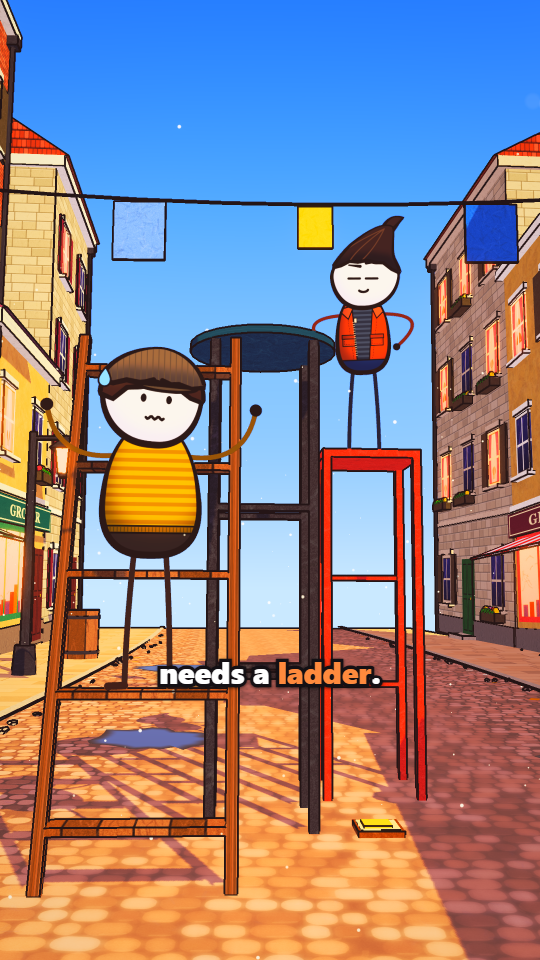
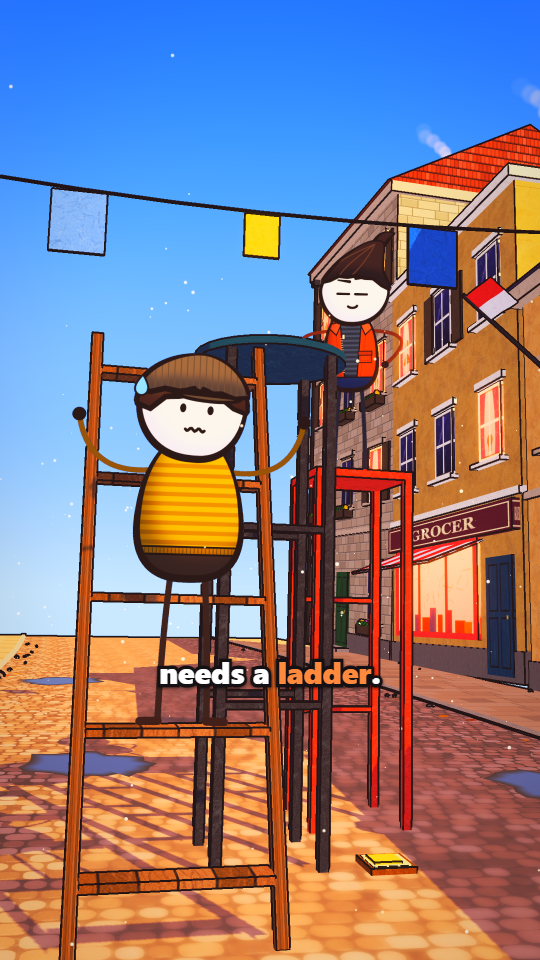
_pipeline-test: final renders, QA layers 1-3, updated report
- Key words always start their own caption group (kit/toon/Captions.tsx):
  the round-2 reviewer saw "ladder." 10 frames before it was spoken.
- Final 2K: 197 s at concurrency 1; 1080: 136 s at concurrency 2.
- QA: layer 1 11/11 pass (6 shots, new Caption width check), video_qa no
  flags, short_qa -14.1 LUFS, measure.py day vignette 1.34 (std 0.191 low).
  New reviewer: S3 restage confirmed; 3 major S2 issues left open.
- TEST-REPORT.md: summary on top, voice-vs-music table (13.1 -> 18.8 dB),
  render times, skill diff summary, open issues. Fresh QA stills + sheet.

diff --git a/kit/toon/Captions.tsx b/kit/toon/Captions.tsx
@@ -17,12 +17,21 @@ export const CAPTION = { size: 0.055, stroke: 0.012, maxWidth: 0.84, maxLines: 2
 export const KEY_COLOR = "#ff8a3d";
 const KEY = /\*([^*]+)\*/;
 
-/** Caption groups (1-2 words) exactly as drawn: shared with the QA guard's "Caption width" check. */
+/**
+ * Caption groups (1-2 words) exactly as drawn: shared with the QA guard's "Caption width" check. A key word
+ * (`*word*`, the punchline) always starts its own group, so it never shows before it is spoken.
+ */
 export const captionPages = (words: CaptionWord[]) =>
   createTikTokStyleCaptions({
     captions: words.map((w) => ({ text: ` ${w.text}`, startMs: w.start * 1000, endMs: w.end * 1000, timestampMs: null, confidence: null })),
     combineTokensWithinMilliseconds: 350,
-  }).pages;
+  }).pages.flatMap((p) => {
+    const k = p.tokens.findIndex((t, i) => i > 0 && KEY.test(t.text));
+    if (k < 0) return [p];
+    const end = p.startMs + p.durationMs, split = p.tokens[k].fromMs;
+    const page = (tokens: typeof p.tokens, startMs: number, endMs: number) => ({ ...p, tokens, startMs, durationMs: endMs - startMs, text: tokens.map((t) => t.text).join("") });
+    return [page(p.tokens.slice(0, k), p.startMs, split), page(p.tokens.slice(k), split, end)];
+  });
 
 export const Captions: React.FC<{ words: CaptionWord[] }> = ({ words }) => {
   const frame = useCurrentFrame();

diff --git a/videos/_pipeline-test/TEST-REPORT.md b/videos/_pipeline-test/TEST-REPORT.md
@@ -1,104 +1,158 @@
 # _pipeline-test: pipeline smoke test report
 
+**Final (2K):** `out/_pipeline-test/final.mp4` (1440x2560, 450 frames, 15.000 s). A 1080 copy is
+`out/_pipeline-test/final_1080.mp4`.
+
+**Summary (follow-up round, 2026-11-12):**
+1. Music fixed: the bed is 6 dB lower and ducked 16 dB under speech. The voice now sits **18.8 dB** over the music during
+   speech (was 13.1 dB, below the new 15 dB FAIL line). The master is still -14.2 LUFS / -1.3 dBTP.
+2. S3 restaged into four shots. The ladder and friend exist only in the reveal shot, so nothing gives the punchline
+   away before "Your friend". The insert shows the toast landing butter-up at ~40 % of the frame width.
+3. Measurement decisions applied: the guard decides whether the camera moves (`measure.py` motion numbers are now
+   reference only); day exteriors get a vignette range of 1.1-1.4 (this video: 1.34).
+4. All the clear-cut skill edits applied. Captions now wrap at 0.84 W, with a new guard check. A key word always
+   starts its own caption group, so a punchline never shows before it is spoken.
+5. QA layer 1 passes 11 of 11 checks and layer 2 has no flags. A new reviewer found **3 major S2 readability issues**
+   (nudge, splat toast at the frame edge, card stick). They were outside this round's scope and are listed under Open.
+
 Internal 15 s test (450 f @ 30 fps), **not for posting**. Script: "What if your toast always landed butter-side
 down?" (`script.json`, approved 2026-11-12).
 
-- **Final (2K):** `out/_pipeline-test/final.mp4`, 1440x2560, 450 frames, 15.000 s, AAC 320k
-- **1080 cut:** `out/_pipeline-test/final_1080.mp4`
-
 ## Result per item
 
-Timestamps are in the final video (frame / 30 = seconds).
+Timestamps are in the final video (frame / 30 = seconds). "Changed" marks what this round changed.
 
-| # | Item | Result | Where to see it | Notes | Fix |
+| # | Item | Result | Where to see it | Notes | Fix / changed |
 |---|---|---|---|---|---|
-| 1 | Script | PASS | Whole video. Hook "butter-side down" by **1.9 s**. Gag: "½" judge card **7.07 s** (f212), 10-foot table + ladder **12.4-15 s**. Punchline "ladder" **14.28 s** | 39 words, scenario pillar, all "you". `check_script.py` reports only the expected length errors (39 words / ~13 s against 200-270 / 61-90). Fact checked (Matthews 1995, Eur. J. Phys. 16:172). Script shown and approved before any ElevenLabs credits were spent | none |
-| 2 | Voice | PARTIAL | Base tag 0.0 s. `[gasps]` **6.24-6.76 s**. `[laughs]` **12.80-13.40 s** | Eleven v4, narrator `zfc8CJQpe8Kqyl0vvCzo`, stability 0.3, one generation. Word timings from the character alignment (`voice/words.json`, 39 words, last word ends 14.88 s). Both tag spans contain sound (-30 / -18 dBFS), but no tool here can tell a performed gasp/laugh from the word read aloud. **Needs an ear check:** `voice/tag_gasps.wav`, `voice/tag_laughs.wav` | listen; if a tag was read aloud, regenerate with `node scripts/tts.ts videos/_pipeline-test --new` |
-| 3 | Captions | PASS | Orange key words: physics **2.96 s**, somersault **5.44 s**, Splat **6.88 s**, up **10.40 s**, ladder **14.28 s**. Long words "somersault..." and "butter-side" | Groups of 1-2 words from `words.json`, at 0.70 H. QA layer 1 "Caption vs face" passes on every frame, and the reviewer confirmed. **Wrapping was not tested:** `Captions.tsx` uses `white-space: pre`, so captions never wrap; the longest group fits at 1080 wide | none here; see skill notes |
-| 4 | Camera | PARTIAL | S1 push-in 0-3.97 s. Dissolve **3.67-4.0 s**. S2 lateral truck (+ slow push) 3.67-8.03 s. Dissolve **7.73-8.07 s**. S3 crane up + orbit 7.73-15 s. Planned shake **6.87-7.10 s** (f206-212) on "Splat" | QA layer 1 camera-curve passes on every frame; `video_qa.py` finds no SHAKE, SNAP or JERK flags. **But `measure.py` reports still frames 0-30** (still run 15 f, still 6.5 %, drift p50 2.06 vs >= 2.5) | not fixed: see "Open issues" 3 |
-| 5 | Characters | PASS | Walk with planted feet **0-3.2 s**. You: neutral → **shocked f204 (6.80 s)** for "Splat" (f206) → **smug f370 (12.33 s)** for "table" (f372). Friend: deadpan → **worried + sweat f426 (14.20 s)** for "ladder" (f428) | Every swap lands 2 frames before its word (guard "Reaction timing", 0-3 f). "Feet on the ground" passes every frame (pavement, stool top at 2.4 m, ladder tread at 0.9 m). Ink outlines and lit cards per kit. The smug face is small in the S3 wide | none |
-| 6 | World / look | PASS | Whole video. Prop interaction: you nudge the toast **5.73 s**, it falls **6.27-6.87 s**. Friend holds the card **7.07 s**. You on the stool, friend on the ladder **7.7-15 s** | Own layout (seed 41, gentle curve, café in the carriageway; S3 swaps in the tall table, stool and ladder). Day colour script. `measure.py`: luma 0.53, sat 0.54, C*p90 63, all in range. **Vignette 1.44 (target 0.8-0.9) is OFF** | not fixed: see "Open issues" 4 |
-| 7 | SFX | PASS | Steps **0.70 / 1.40 / 2.10 / 2.77 s**. Whoosh **3.83 s**, **7.90 s**. Swish 6.27 s. **Splat 6.87 s**. Pop 7.07 s. Pat 10.40 s. **UI sting 14.27 s** | 11 synthesized events (`audio/events.json`, `cues.md`), each placed on its frame, derived from `words.json` or the walk formula. Timed by construction; not checked by ear | none |
-| 8 | Music | PASS | Whole video. Comic drop-out **6.83-7.60 s**. Button **14.27 s** | Original 120 bpm plucked loop (`scripts/audio/music.py`), ducked -10 dB under the voice. The button lands on "ladder" and decays to -57 dBFS before the last frame: no hard cut | none |
-| 9 | Mix / master | PASS | Whole video | `mix.wav` measures **-14.3 LUFS integrated, -1.3 dBTP true peak** (EBU R128 via ffmpeg loudnorm). The final AAC measures -14.1 LUFS with sample peak -1.2 dBFS (`short_qa.py`; true peak of the AAC file not measured). Premaster was -18.6 LUFS / -0.8 dBTP, so the look-ahead true-peak limiter (ceiling -1.3) does about 4.5 dB of peak reduction. Length exactly 720,000 samples | none |
+| 1 | Script | PASS | Hook "butter-side down" by **1.9 s**. Gag: "½" card **7.07 s**, 10-foot table **11-13.4 s**, ladder reveal **13.4 s**. Punchline "ladder" **14.28 s** | 39 words, scenario pillar, all "you". The checker's only errors are the expected length ones. Fact checked (Matthews 1995) | none |
+| 2 | Voice | PARTIAL | `[gasps]` **6.24-6.76 s**, `[laughs]` **12.80-13.40 s** | Eleven v4, narrator voice, word timings from the alignment. The tag spans contain sound, but only an ear can tell a performed gasp/laugh from the word read aloud. **Needs your ear check:** `voice/tag_gasps.wav`, `voice/tag_laughs.wav` | listen; regenerate with `node scripts/tts.ts videos/_pipeline-test --new` if a tag was read aloud |
+| 3 | Captions | PASS | Orange key words: physics 2.96 s, somersault 5.44 s, Splat 6.88 s, up 10.40 s, ladder 14.28 s. "needs a" **13.92 s**, then "ladder." alone **14.28 s** | **Changed:** captions wrap inside 0.84 W (max 2 lines). The new guard "Caption width" check passes, and was tested to fail at 0.2 W. A key word always starts its own group (the reviewer saw "ladder." 10 frames early; fixed). "Caption vs face" passes on every frame | done |
+| 4 | Camera | PASS | S1 push-in 0-4.0 s · dissolve 3.67 s · S2 truck 3.67-8.07 s, planned shake **6.87-7.10 s** · dissolve 7.73 s · S3a push+arc 7.73-9.73 s · **hard cut 9.73 s** · S3b insert 9.73-11.3 s · dissolve 11.0 s · S3c low-angle arc/crane 11.0-13.7 s · dissolve **13.37 s** · S3d reveal arc 13.37-15 s | Guard "Camera curve" passes on every frame of all 6 shots (the authority, per section 3); `video_qa.py` finds no SHAKE, SNAP or JERK. `measure.py` motion (reference only): still 5.1 %, longest still run 5 f, drift p50 1.88 (S1 push-in on distant buildings, start of the insert) | **Changed:** S3 split into S3a-d |
+| 5 | Characters | PASS | Walk with planted feet **0-3.2 s**. You: neutral → **shocked 6.80 s** ("Splat" 6.87 s) → **smug 12.33 s** ("table" 12.40 s). Friend: deadpan → **worried + sweat 14.20 s** ("ladder" 14.27 s) | Every swap lands 2 frames before its word (guard "Reaction timing"). Feet planted every frame | none |
+| 6 | World / look | PASS | Whole video; S2 vignette before/after: `qa/vignette/S2_before_after.png` | **Changed:** day grade vignette .06 → .14. `measure.py --light day`: vignette **1.34** (new day range 1.1-1.4), luma .51, sat .54, C*p90 67. **std 0.191 is just under 0.21** (flatter since the S3 restage: more sky and a ground-level insert) | std: open (minor) |
+| 7 | SFX | PASS | Steps 0.70/1.40/2.10/2.77 s · whoosh 3.83, 7.90, 11.17, 13.53 s · swish 6.27, 8.73, 9.73 s · **splat 6.87 s** · pop 7.07 s · pat 10.40 s · **UI sting 14.27 s** | 15 synthesized events (`audio/events.json`, `cues.md`); 4 new for the S3 transitions | re-timed to the new shots |
+| 8 | Music | PASS | Whole video. Drop-out 6.83-7.60 s. Button **14.27 s** | **Changed:** bed -3 dB (was +3), ducked **-16 dB** (was -10). The button is its own stem, not ducked: above the bed, **3.2 dB under the voice** on "ladder". It decays to -57 dBFS before the last frame | done |
+| 9 | Mix / master | PASS | Whole video | `mix.wav`: **-14.2 LUFS, -1.3 dBTP**. Final AAC: -14.1 LUFS, sample peak -1.2 dBFS. **Voice over music during speech: 18.8 dB** (was 13.1 dB; on "table" the music used to be 6.3 dB louder than the voice). Checked by `mix.py` on every build: FAIL below 15 dB | done |
 
-## QA summary
+## Voice vs music (new check)
+
+`scripts/audio/mix.py`, speech band 200-4000 Hz, RMS of the voice stem vs the music as mixed (bed + button) over
+every word of `words.json`; written to `audio/loudness.json`.
+
+| Mix | Voice over music, all words | Lowest word | Voice over button ("ladder") | Verdict (>= 15 dB) |
+|---|---|---|---|---|
+| Before (bed +3 dB, duck 10 dB, button ducked) | 13.1 dB | -6.3 dB on "table." | 7.1 dB | FAIL |
+| **Now** (bed -3 dB, duck 16 dB, button -3 dB not ducked) | **18.8 dB** | 3.2 dB on "ladder." (the button) | 3.2 dB | **PASS** |
+
+## QA summary (final 2K)
 
 | Layer | Check | Result |
 |---|---|---|
-| 1 (scene, every frame) | 10 checks (`qa/layer1.md`) | **PASS**. 14 intended items: terrace buildings built to meet; the friend standing between the ladder rails |
-| 2 (pixels) | `video_qa.py` on the 2K final | **No flags** (`qa/layer2/report.md`) |
-| 2 | `short_qa.py` | Specs OK, -14.1 LUFS, no silences, black, white or frozen frames, no pops (`qa/short_qa/`) |
-| 2 | `measure.py` | Colour OK. **Vignette, drift p50, still % and still run OFF** (see Open issues 3-4) |
-| 3 (fresh reviewer) | 10 findings (`qa/layer3/REVIEW.md`) | 6 fixed, 2 partly fixed, 2 not fixed (staging and light) |
+| 1 (scene, every frame, 6 shots) | 11 checks incl. the new "Caption width" (`qa/layer1.md`) | **PASS.** 14 intended: terrace buildings built to meet; the friend between the ladder rails |
+| 2 (pixels) | `video_qa.py` | **No flags** (`qa/layer2/report.md`) |
+| 2 | `short_qa.py` (now given `shots.json`) | -14.1 LUFS, no silences, black, white or frozen frames. One pop at f312: the toast landing big in the insert, a planned image change, not a cut |
+| 2 | `measure.py --light day` | Colour OK, vignette 1.34 OK. std 0.191 OFF (minor). Motion: reference only |
+| 3 (new reviewer) | 10 findings (`qa/layer3/REVIEW.md`, round 2) | S3 restage confirmed (punchline hidden through f402, insert reads). Caption finding fixed. **3 major S2 issues open**, plus minor ones |
 
-Stills: `qa/f0000.png` ... `qa/f0449.png` (shot starts, mids, every expression swap ±2 f) and the contact sheet
-`qa/sheet.png`.
+Stills: `qa/f0000.png` ... `qa/f0449.png` (every shot start, mid-shot and expression swap ±2 f, all 6 shots) and
+the contact sheet `qa/sheet.png`.
 
-## Render times (this laptop, 15 s / 450 frames, `--gl=angle`)
+## Render times (this laptop, 15 s / 450 frames, `--gl=angle`; all include bundle + QA layer 1)
 
-| Render | Concurrency | Time | Notes |
+| Render | Concurrency | First test (3 shots) | Follow-up (6 shots) |
 |---|---|---|---|
-| 17 stills, 0.5 scale | - | 76 s | includes bundle and QA layer 1 |
-| 1080x1920 | 1 | 145 s | stable |
-| 1080x1920 | 2 | 129 s, 136 s (two runs) | stable; output byte-identical to the concurrency 1 render |
-| 1440x2560 (2K) | 1 | 232 s, 189 s (two runs) | stable |
+| 1080x1920 | 1 | 145 s | not re-run |
+| 1080x1920 | 2 | 129 s, 136 s | 143 s, 136 s, 136 s |
+| 1440x2560 (2K) | 1 | 232 s, 189 s | **198 s, 197 s** |
+| 20 stills, 0.5 scale | - | 76 s (17 stills) | 81 s |
 
-All times include bundling and the QA layer 1 pass (~30-40 s of fixed cost).
+**Six shots did not slow the render.** A dissolve only renders two canvases for 10 frames. A 75 s Short in 2K would take
+about 15-17 min at concurrency 1, under the 30 min limit. 2K at concurrency 2 is still untested.
 
-**Is 2K realistic for daily posting?** Yes, on this evidence. The 2K render costs about 0.35-0.45 s per frame at
-concurrency 1, so a 75 s Short (2,250 frames) would take roughly 13-17 min, under the skill's 30 min limit.
+## What changed this round (by section and commit)
 
-Caveats:
-- This test scene is light: one street, two characters, few practical lights. Heavier scenes will be slower.
-- 2K at concurrency 2 was not tried.
-- One early concurrency 2 timing (185 s) is discarded: it overlapped another render by mistake.
+| Section | Commit | Changes |
+|---|---|---|
+| 1. Music | `571934d` | `music.py` writes the bed and the button separately. `mix.py`: bed -3 dB, duck 16 dB, button not ducked, voice-vs-music check (FAIL < 15 dB), `loudness.json` levels. Skill "Mix" rule rewritten with the reference levels |
+| 2. S3 restage | `3d369a1` | S3a tabletop / S3b insert (hard cut) / S3c low angle / S3d reveal; `OPTS_TALL` without the ladder, `OPTS_REVEAL` with it; 4 new sound cues |
+| 3. Measurement | `9656657` | `measure.py`: motion reference only, texture by gradient, untracked frames skipped, `--light` vignette ranges (day 1.1-1.4). Day grade vignette .14. Both skills updated |
+| 4. Skill edits | `d338d6a` | See the diff summary below, plus caption wrapping, the Caption width guard check, `subjectFrom`, the non-verbal tag time in `check_script.py`, Studio-only preview audio, `videos/BACKLOG.md` |
+| 5. QA + report | (this commit) | Final renders, QA layers 1-3, this report. Includes the key-word caption split, found by the reviewer |
 
-## Errors and warnings hit (and what was done)
+### Diff summary of every skill change (since the first test, `21cf88b`)
 
-1. **ElevenLabs 403.** `mp3_44100_192` needs the Creator tier. `tts.ts` uses `mp3_44100_128` (marked `shortcut:` in the file). No credits were charged for the failed call.
-2. **2K render failed at `--scale 1.3333`:** "height must be an integer, but is 2559.936". `render.mjs` now accepts `4/3`.
-3. **The ffmpeg bundled with Remotion has no `ebur128` filter.** Loudness is metered with `loudnorm`'s measuring pass, which reports EBU R128 integrated loudness and true peak.
-4. **`loudnorm` linear mode was impossible:** a +4.6 dB gain would have pushed the true peak past -1. It fell back to dynamic mode (-15.2 LUFS). Replaced with gain plus a look-ahead true-peak limiter.
-5. **`npx tsx` isn't installed.** `scripts/tts.ts` runs with `node` (Node 26 strips TypeScript types). Node prints a `MODULE_TYPELESS_PACKAGE_JSON` warning; run with `--no-warnings`.
-6. **`tsc` failed on `scripts/tts.ts`** because `@types/node` isn't installed. Excluded `scripts/` from `tsconfig.json` (the other scripts are `.mjs`). Also added `resolveJsonModule` so a video can import its `words.json`.
-7. **Python `soundfile` isn't installed** (Python 3.15). The audio scripts use `scipy.io.wavfile`.
-8. **`render.mjs` hard-coded concurrency 2.** Added `--concurrency N` and a total-time line.
-9. **The first guard runs failed** (subject out of frame, caption band, still holds, ladder through table, friend between the rails). All fixed, or marked intended with a reason, before the first render.
+**toon-world-short/SKILL.md**:
+- *Mix* rule rewritten:
+  - stem reference levels: music bed RMS -20 dBFS, SFX peaks -3 dBFS, voice as delivered;
+  - voice 0, bed -3 dB ducked 16 dB, button -3 dB not ducked, SFX -6 dB;
+  - voice-vs-music check (FAIL < 15 dB; never fix it by raising the music);
+  - true-peak limiter for -14 LUFS / -1 dBTP;
+  - a musical button may land on the last word and must decay before the last frame.
+- *Final export*: scale `4/3` instead of `1.3333`.
+- *Layout*: the real `scripts/` list (no `timeline.py`); "until the pilot copy `src/videos/_pipeline-test/`".
+- *Step 2*: POV-only "you" shots, with the back view in BACKLOG.
+- *Step 3*: `node scripts/tts.ts` (was `npx tsx`), plus `--new` and response reuse.
+- *Step 4*: template fallback.
+- *Step 8*: the `events.json` format, the three audio commands, `loudness.json`, the Studio preview audio.
+- *Step 10*: `render.mjs ... 4/3 [--concurrency 1|2]`.
+- *Vignette*: target by lighting (day 1.1-1.4).
+- *Camera*: "POV for 'you'".
 
-## What the skills got wrong or left vague (suggested edits, not applied)
+**stickrified-script/SKILL.md**:
+- The POV rule.
+- A new *Non-verbal tags* paragraph: ~0.5-0.6 s each, 2.6 words/s measured with two of them, ear-check before
+  approving.
 
-1. **toon-world-short, "Final export" and step 10:** `--scale 1.3333` breaks the render. Use `4/3` (`node scripts/render.mjs <Comp> out/<slug>/video.mp4 4/3`).
-2. **toon-world-short step 3:** `npx tsx scripts/tts.ts` should be `node scripts/tts.ts`, or add `tsx` as a devDependency.
-3. **toon-world-short step 8 / Layout:** lists `scripts/audio/timeline.py sfx_gen.py music.py mix.py`, and none existed. This test created `sfx_gen.py`, `music.py` and `mix.py`, with the event table hand-written as `audio/events.json`. Document the event table format.
-4. **House rules "Mix" is ambiguous.** "music +3 dB, SFX -6 dB, voice unchanged" doesn't say relative to what. Suggest: "relative to stems normalised to music RMS -20 dBFS and SFX peaks -3 dBFS" (what `mix.py` does). Also state that hitting -14 LUFS / -1 dBTP needs a true-peak limiter, because loudnorm alone falls back to dynamic mode.
-5. **"End the mix on the last word: no outro sting" vs a musical button.** Suggest: "a button may land on the last word and must decay before the last frame".
-6. **stickrified-script "tag most lines" vs the user's "2-3 tags on beats".** The two rules conflict. Non-verbal tags (`[gasps]`, `[laughs]`) aren't in the skill's tag list, and each added ~0.5 s. With them, the real pace was **2.6 words/s** (39 words → 14.9 s), not the 3.1 the checker assumes. Suggest listing non-verbal tags with their time cost.
-7. **"At least one POV / over-the-shoulder 'you' shot" can't be built.** Cards are always camera-facing front views, so an over-the-shoulder shot shows your face, not your back. Needs a back-view card, or redefine the rule as POV only.
-8. **video-qa layer 2 step 2** says to pass `plan.json` to `short_qa.py`, but it reads the `shots.json` format that `guardPass` writes. Use `out/<slug>/shots.json`.
-9. **The guard and `measure.py` disagree on "still".** The guard traces geometry and passes S1. `measure.py` uses optical flow and flags it, because large flat sky areas carry no trackable motion. One of them needs recalibrating, or the skill should say which one rules.
-10. **`measure.py` vignette target 0.8-0.9 vs day exteriors:** this video measures 1.44 (corners brighter than the centre: sky and sunlit cobbles). Either the Composer vignette is too weak for daylight or the target only fits dusk and interiors. Needs a decision.
-11. **Captions "test wrapping":** `Captions.tsx` never wraps (`white-space: pre`) and has no max width, so a long two-word group could run off-frame. Suggest `maxWidth: 0.84 W` with wrapping, or a guard check on caption width.
-12. **Step 4 "copy `templates/base/`":** it doesn't exist before the pilot. Suggest "until the pilot: start from `src/CharacterTest.tsx`".
-13. **The guard's "Subject in frame"** can't express "subject enters during the shot" (S3 crane reveal), so S3 has no subject. Suggest a `subjectFrom` frame.
-14. **The `Video` composition has no `<Audio>`,** so Studio previews are silent and the mix only arrives at the mux. Consider mounting `mix.wav` from `public/` for review.
+**stickrified-script/check_script.py**: `NONVERBAL` tag time is added to the length estimate (this script: ~14 s
+estimated, 14.9 s actual; was ~13 s).
 
-## Scaled down for the 15 s length (or skipped as not needed for a test)
+**video-qa/SKILL.md**:
+- `short_qa.py` takes `out/<slug>/shots.json`.
+- New *Caption width* row.
+- *Subject in frame* honours `subjectFrom`.
+- `measure.py --light ...`, and its motion numbers are reference only (the layer 1 guard decides).
 
-- **Length:** 15 s / 39 words instead of 61-90 s / 200-270 words. `check_script.py`'s two length errors were accepted.
-- **Scenario formula:** dropped the DAY time markers and stamp cards, the "Luckily / Unluckily" double and the "Wait...?" mystery beat. Kept the hook, the snap, the "You see," real-world turn and the callback punchline.
-- **Shots:** 3 instead of a new shot every 3-5 s (5 s average here). No `FLASH_AT` white flash after the hook, and no whips.
-- **No true over-the-shoulder shot** (see skill note 7). S1 is a push-in facing you.
-- **Verifier passes:** one fresh reviewer pass on the final, instead of a verifier after every look step. The re-render after its fixes wasn't re-reviewed by a new agent; I checked it myself against the contact sheet.
-- **Side-by-side `sbs_sheet.py` against `docs/style/frames/`** wasn't run.
-- **Delivery step skipped** (titles, description, TIMELOG, BACKLOG), because the video isn't for posting.
-- **No `sources.md`** (scenario pillar; the fact and its source are in `script.json`).
-- **Commits:** one commit at the end instead of one per step. Not pushed.
+## Errors and warnings hit
 
-## Open issues (bigger than a small fix; not fixed)
+First round, all handled:
+- ElevenLabs 403 on 192 kbps (Creator tier; using 128 kbps).
+- `--scale 1.3333` refused.
+- No `ebur128` in the bundled ffmpeg.
+- loudnorm fell back to dynamic mode.
+- No `tsx` and no `@types/node`.
+- No Python `soundfile`.
+- `render.mjs` hard-coded concurrency 2.
 
-1. **S3 gives away the punchline** (reviewer #5). The ladder and friend are visible from 7.7 s, but "needs a ladder" lands at 14.3 s. Needs restaging: start tight on the tabletop and reveal the ladder on "Your friend". Probably split S3 into two shots.
-2. **The S3 toast reads small** (reviewer #2, partly fixed). It falls on open ground now but covers well under 15 % of the frame width. Needs an insert close-up or a follow-tilt on the fall.
-3. **`measure.py` still frames 0-30** (see skill note 9). The first fix (S1 starting mid-glide) didn't change it, so the cause is the measurement, not the camera ease.
-4. **Vignette 1.44 and the shaded S2 facade** (reviewer #10). A light-rig and grade decision for daylight scenes (see skill note 10).
-5. **Audio tags need an ear check** (item 2).
+This round:
+- A shell heredoc broke on a long inline Python edit (re-run from a scratch file).
+- PowerShell 5.1 `Set-Content -Encoding utf8` added a BOM to `Captions.tsx` during the caption-width negative test
+  (stripped). Use the Edit tool, or `[IO.File]::WriteAllText`, for UTF-8 without a BOM.
+- The guard caught S3a's head at the frame edge on the first try (re-aimed).
+
+## Scaled down for the 15 s length (or skipped)
+
+- 15 s / 39 words.
+- No DAY stamps, no "Luckily / Unluckily", no mystery beat, no `FLASH_AT` flash, no whips.
+- POV rule: S1 faces you; no true POV shot was built.
+- Delivery step skipped (not for posting).
+- No `sources.md` (scenario; the fact is in `script.json`).
+- No `sbs_sheet.py` side-by-sides.
+
+## Open issues
+
+1. **S2 readability, 3 major** (reviewer round 2):
+   - the nudge doesn't read: you stand ~250 px from the toast;
+   - the splat toast lands at the right edge as a plain brown tile;
+   - the card stick doesn't meet the friend's hand and the card overlaps the cap.
+
+   Fix: walk you to the table edge with a hand-to-toast touch at ~f177; land the toast at ~65 % of the frame width
+   with a butter squish; put the stick's foot at the raised hand dot.
+2. **The voice tags need your ear check** (item 2).
+3. **S3c sky** clips the blue channel (#1165fe vs spec #5e93d9) and dust reads as stars against it. This is a sky
+   shader / day preset question for low angles.
+4. **std 0.191** (target 0.21-0.29): the image is slightly flat since the restage.
+5. **Minor (reviewer):** S3a doesn't show the height; feet on the table rim at f20-40; table base blob f85-110; leg
+   sliver in the insert; two of "you" during the reveal dissolve; the friend's hands hover outside the rails; ink
+   specks and a faceted table rim in S2.
+6. **`measure.py` motion** still reads the S1 push-in as low (distant blurred buildings barely move in a push-in).
+   By decision the guard rules; it's listed for the record.

diff --git a/videos/_pipeline-test/qa/layer3/REVIEW.md b/videos/_pipeline-test/qa/layer3/REVIEW.md
@@ -18,3 +18,25 @@ are planted, lighting is consistent, and the captions are correct and never cove
 | 8 | 70-119 | minor | The toast is cut by the left edge in S1 | **Partial.** Visible from f0, cut again at the end of the push-in |
 | 9 | 305-306 | minor | The falling toast clips a ladder rung | **Fixed.** It now falls on the side away from the ladder |
 | 10 | 120-235 | minor | The S2 facade is in grey shade next to the sunlit S1 and S3 | **Not fixed.** A light-rig question (listed) |
+
+---
+
+# Round 2: a new reviewer (Opus, max effort), on the follow-up 2K final (six shots)
+
+The reviewer saw the contact sheets plus stills f30, f176, f206, f212, f280, f300, f312, f372, f398, f406 and f440,
+and pulled extra frames from the final. The stills from this round are kept in this folder.
+
+**Verdict:** not ready to ship, with three major issues, all in S2. There is no clipping, no broken material, no
+z-fighting and no shadow acne. Lighting matches between shots and no caption covers a face. The S3 restage works:
+the insert lands butter-up on "up" at f312 (butter first visible at f309). The ladder and friend stay hidden
+through f402 and the dissolve only reads from about f403. S3c sells the 10-foot table.
+
+| # | Frames | Severity | Finding | Status |
+|---|---|---|---|---|
+| 1 | 176-190 | major | The nudge doesn't read: you stand ~250 px from the toast with your hand by your head, and the toast slides off by itself | open (outside this round's scope) |
+| 2 | 206-235 | major | The butter-down toast lands at the right frame edge, partly cut, and reads as a brown tile | open |
+| 3 | 212-235 | major | The "½" card floats: the hand is ~105 px from the stick and the card overlaps the cap | open |
+| 4 | 403-426 | minor | The caption "needs a ladder." showed "ladder." from f418, before it was spoken (f428); the ladder reads from ~f406 | **Fixed.** A key word now always starts its own caption group (`kit/toon/Captions.tsx`), so "ladder." appears on its own word |
+| 5 | 250-291 | minor | S3a doesn't show "10 feet up": you could be on a box | open |
+| 6 | 336-449 | minor | The S3c sky is #1165fe with the blue channel clipped (S3a #4fa0fe, spec #5e93d9), and dust reads as stars against it | open |
+| 7 | various | minor | f20-40 your feet line up with the table rim; f85-110 the table base is a dark blob in the corner; f292-330 a leg sliver on the left edge; f404-409 two of "you" during the dissolve; f435-449 the friend's hands hover outside the rails; S2 has stray ink specks and a faceted table rim | open |

diff --git a/videos/_pipeline-test/qa/layer1.md b/videos/_pipeline-test/qa/layer1.md
@@ -1,5 +1,5 @@
 # QA layer 1: PipelineTest
-3 shot(s), scene checks ran on 3.
+6 shot(s), scene checks ran on 6.
 
 | Check | Result |
 |---|---|
@@ -10,6 +10,7 @@
 | Camera curve | pass |
 | Subject in frame | pass |
 | Caption vs face | pass |
+| Caption width | pass |
 | Reaction timing | pass |
 | Light continuity | pass |
 | Shadows | pass |
@@ -27,4 +28,4 @@
 - (intended) **Props through props** `setup` f0: building at s 31.3 right (TEA ROOM) vs building at s 38.0 right: boxes intersect by more than 1 cm (a corner is 1 cm inside); parts 5.91x6.81x8.00 m at (0.00, 3.41, 0.00) and 7.55x9.72x8.00 m at (0.00, 4.86, -0.00) (terrace right: built to meet)
 - (intended) **Props through props** `setup` f0: closing building x -8 vs closing building x 0: boxes intersect by more than 1 cm (edges cross); parts 8.00x13.16x8.00 m at (0.00, 6.58, 0.00) and 8.04x0.60x8.10 m at (0.00, 0.30, 0.00) (closing row: built to meet)
 - (intended) **Props through props** `setup` f0: closing building x 0 vs closing building x 8: boxes intersect by more than 1 cm (a corner is 0 cm inside); parts 8.00x13.10x8.00 m at (-0.00, 6.55, -0.00) and 8.00x13.09x8.00 m at (-0.00, 6.54, 0.00) (closing row: built to meet)
-- (intended) **Card penetration** `_pipeline-test/S3-crane-orbit` f232-449: "friend" vs ladder: card footprint overlaps it (friend stands on a ladder tread, between the rails (intended))
+- (intended) **Card penetration** `_pipeline-test/S3d-reveal` f401-449: "friend" vs ladder: card footprint overlaps it (friend stands on a ladder tread, between the rails (intended))

diff --git a/videos/_pipeline-test/qa/short_qa/report.md b/videos/_pipeline-test/qa/short_qa/report.md
@@ -1,11 +1,14 @@
 SPECS 1440x2560 30/1 fps, 450 frames, 15.000 s; audio: aac 48000 Hz 1ch
-LOUDNESS I:         -14.1 LUFS | LRA:         1.9 LU | Peak:       -1.2 dBFS
+LOUDNESS I:         -14.1 LUFS | LRA:         2.3 LU | Peak:       -1.2 dBFS
 SILENCES none
 FRAMES 450; black []; unplanned white []; frozen spans >=12f []
-POPS (unplanned frame-diff spikes > 3x local median): []
-MOTION mean diff 5.97; frames with diff<0.3 (held): 0 (0%)
+POPS (unplanned frame-diff spikes > 3x local median): [312]
+MOTION mean diff 4.38; frames with diff<0.3 (held): 0 (0%)
 
 PER SHOT  (luma mean / std / p2 / p98 / saturation mean, medians over the shot)
-  shot _pipeline-test/S1-pushin f0-118: 0.539 / 0.213 / 0.152 / 0.894 / 0.494
-  shot _pipeline-test/S2-truck f110-240: 0.496 / 0.196 / 0.125 / 0.824 / 0.521
-  shot _pipeline-test/S3-crane-orbit f232-448: 0.546 / 0.209 / 0.123 / 0.889 / 0.575
+  shot _pipeline-test/S1-pushin f0-118: 0.529 / 0.210 / 0.147 / 0.894 / 0.496
+  shot _pipeline-test/S2-truck f110-240: 0.486 / 0.192 / 0.123 / 0.817 / 0.521
+  shot _pipeline-test/S3a-tabletop f232-290: 0.570 / 0.226 / 0.132 / 0.898 / 0.515
+  shot _pipeline-test/S3b-insert f292-338: 0.583 / 0.186 / 0.226 / 0.865 / 0.583
+  shot _pipeline-test/S3c-low-angle f330-409: 0.458 / 0.208 / 0.136 / 0.873 / 0.648
+  shot _pipeline-test/S3d-reveal f401-448: 0.499 / 0.201 / 0.120 / 0.889 / 0.595
